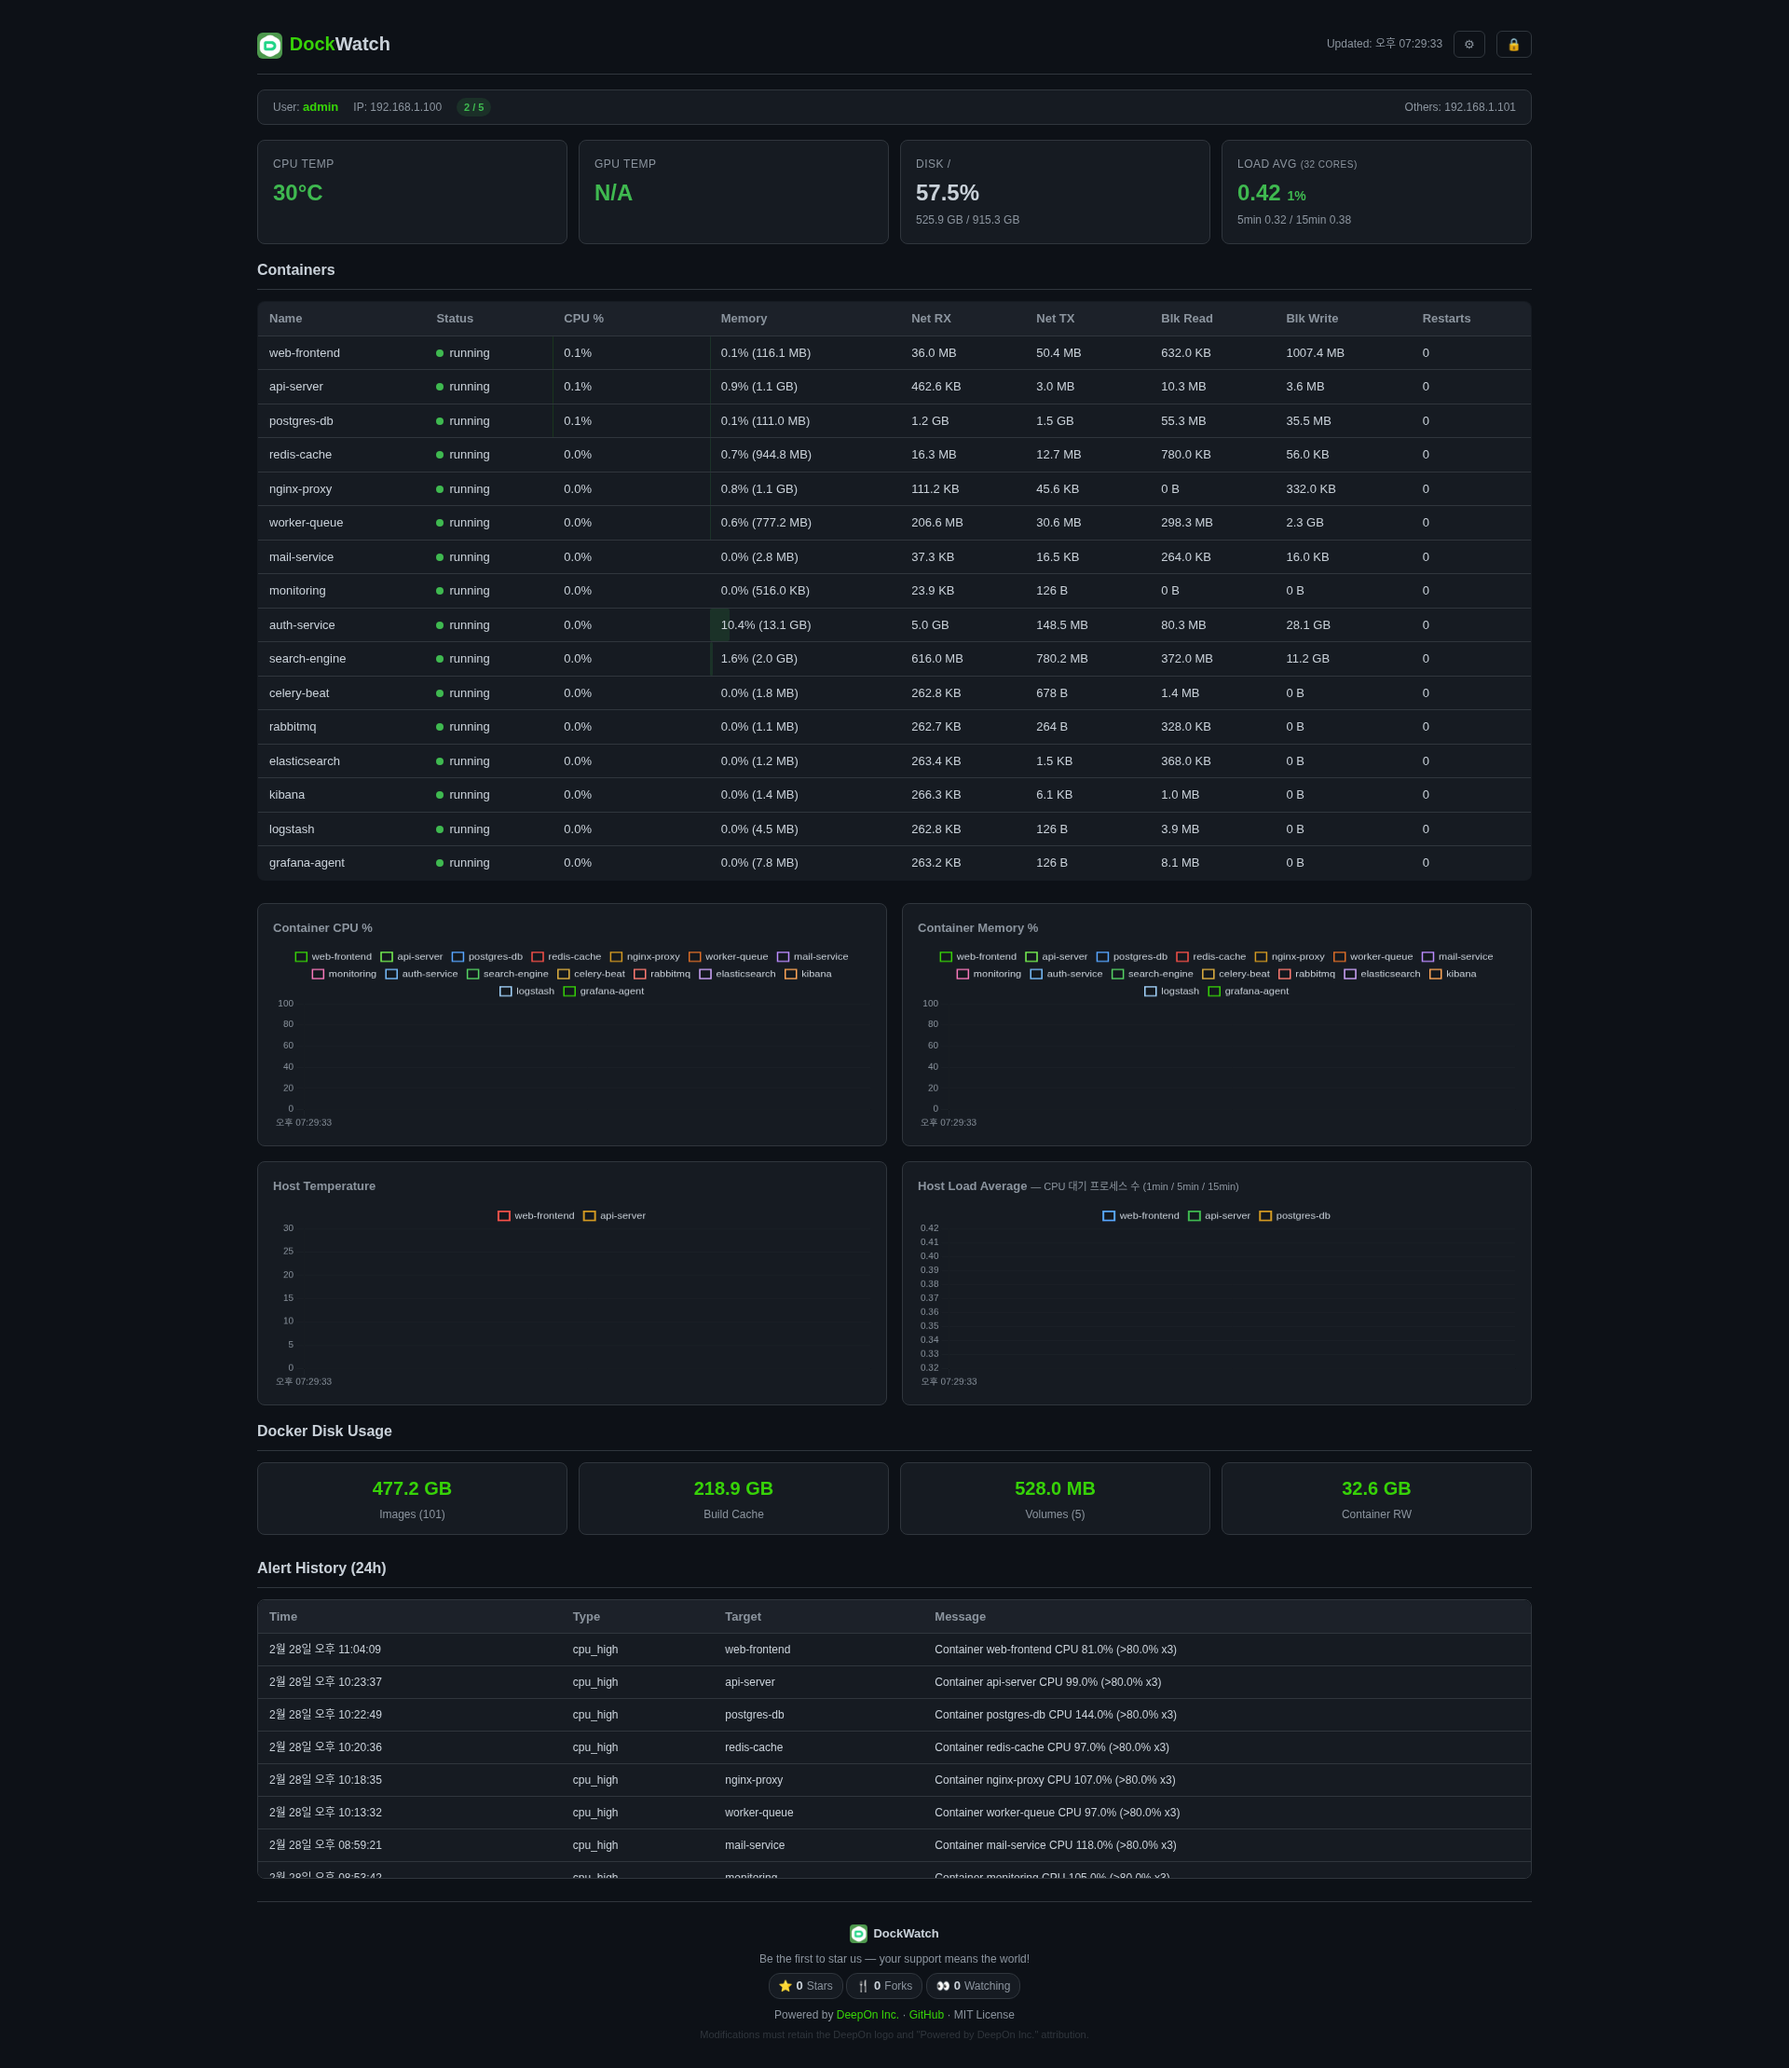
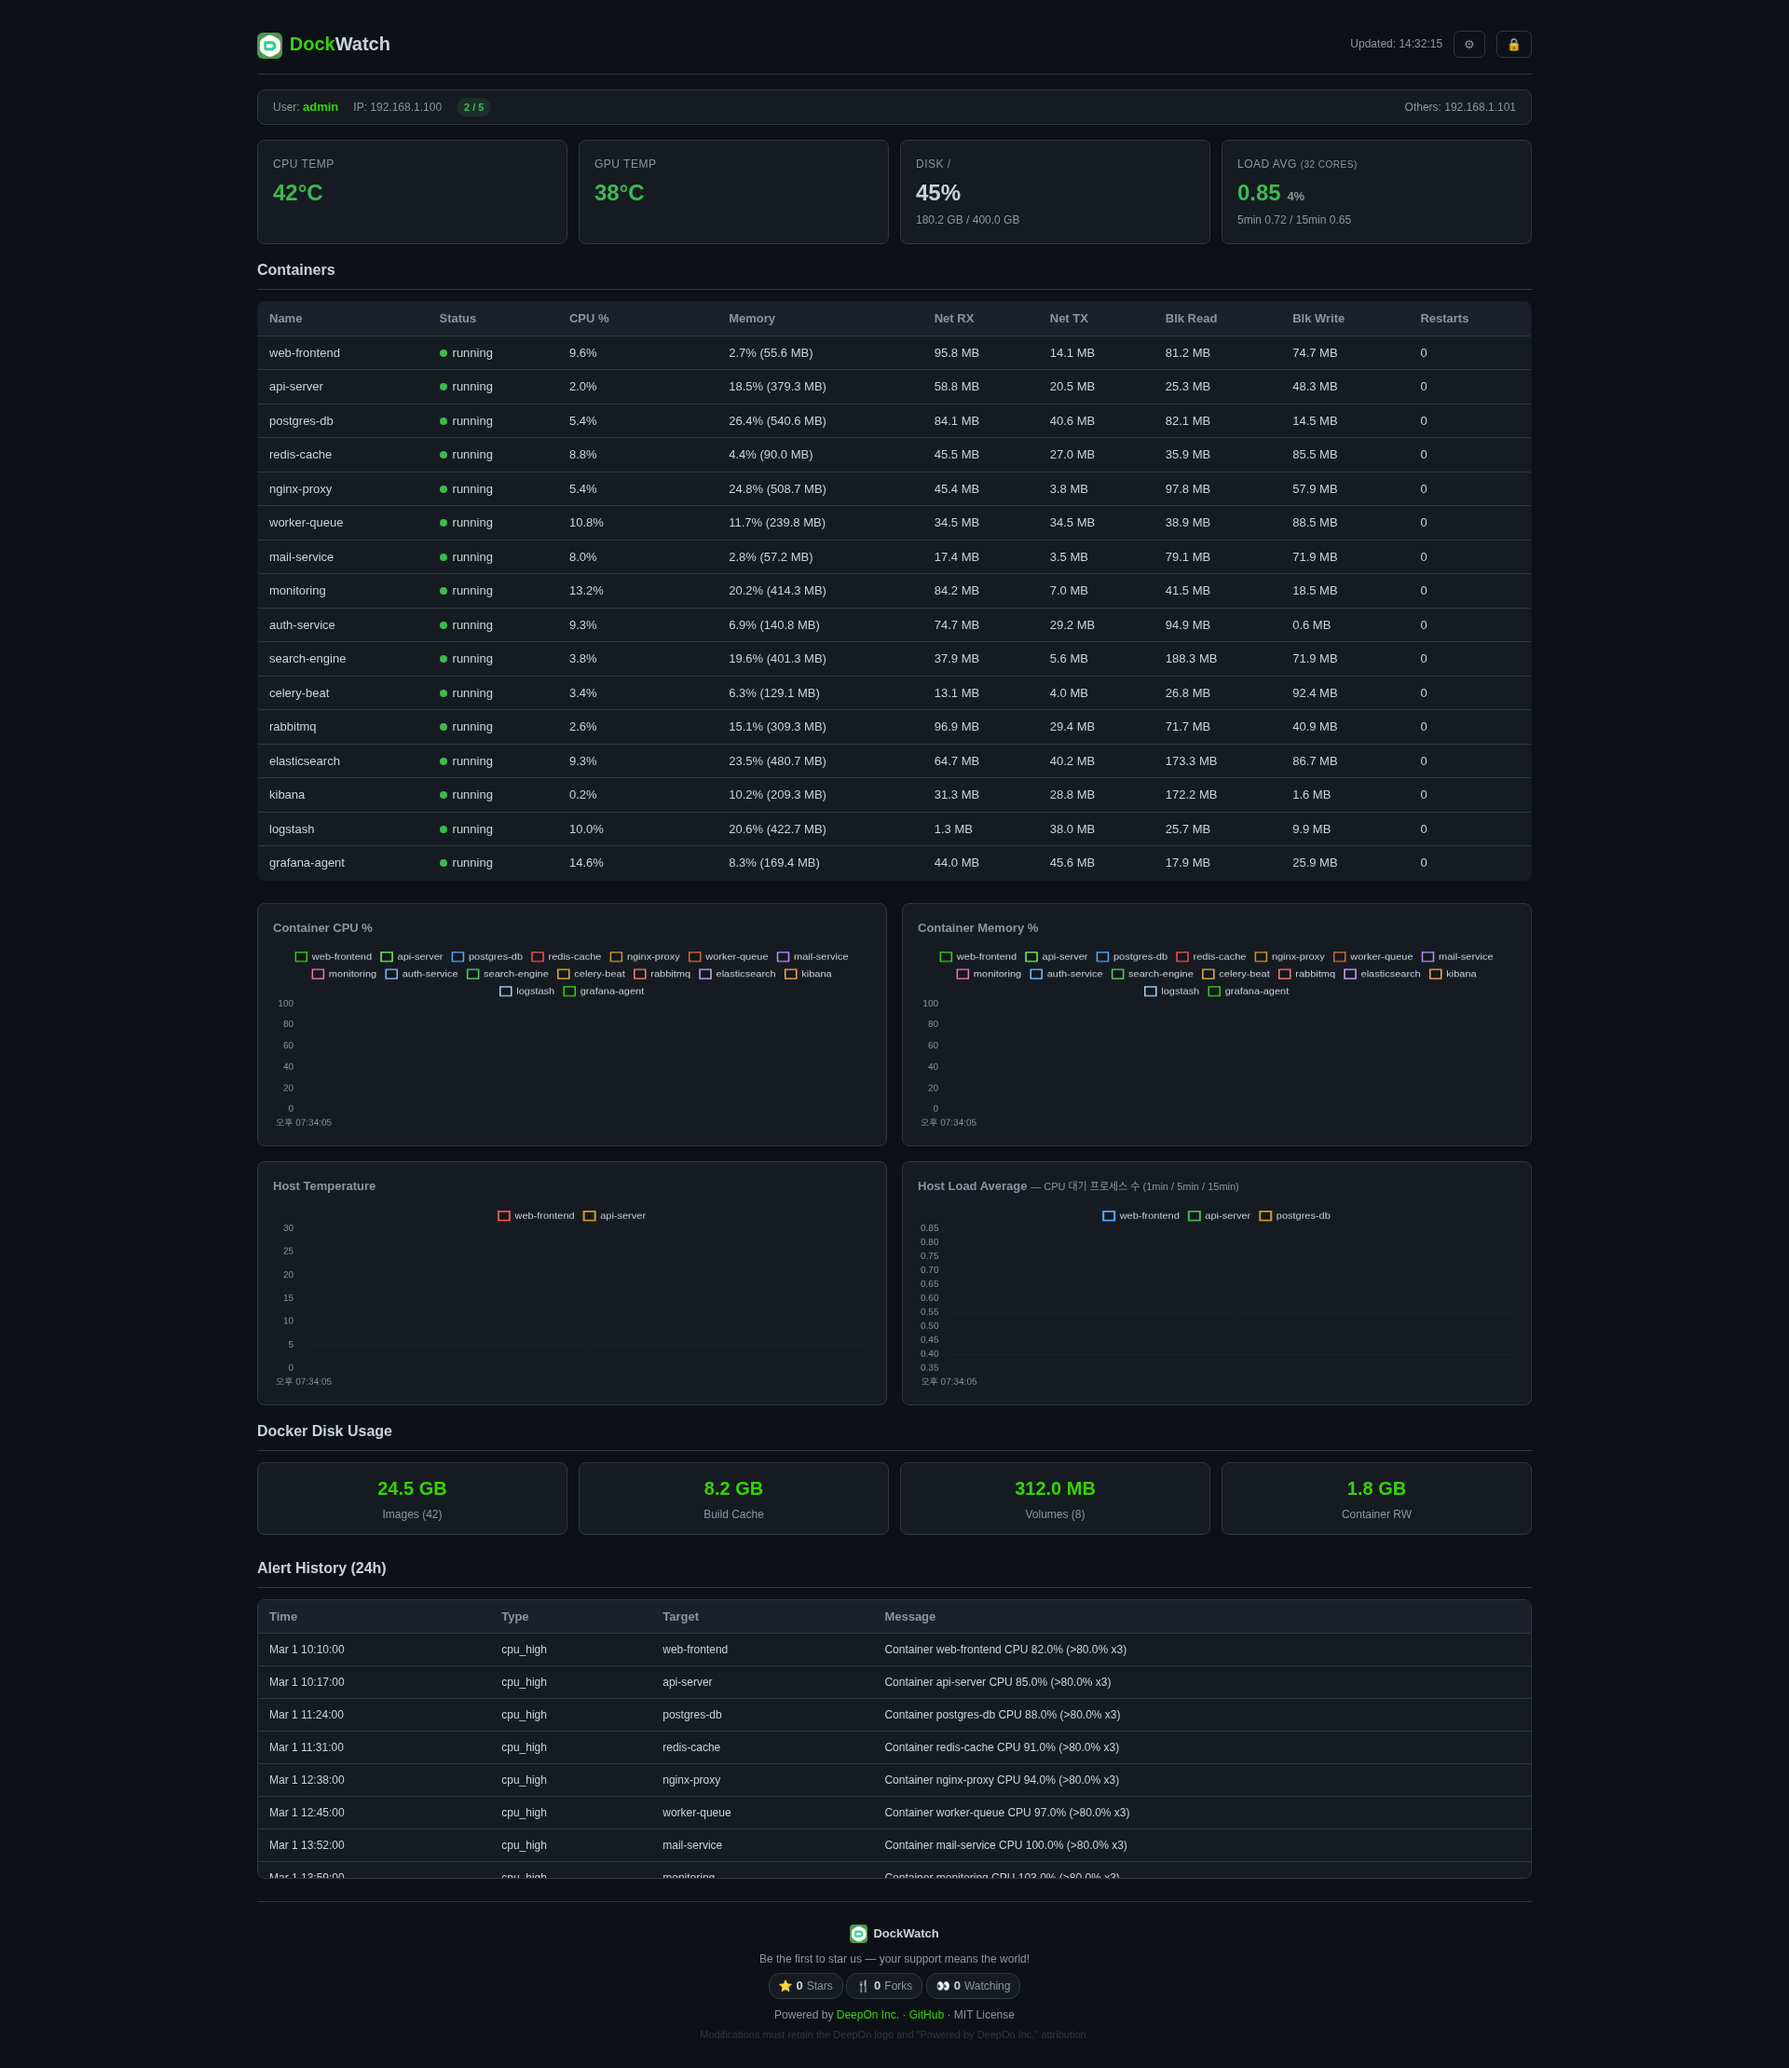
Replace all sensitive data in screenshots with dummy values

diff --git a/docs/capture-screenshots.js b/docs/capture-screenshots.js
@@ -46,7 +46,7 @@ async function capture() {
   // Wait for data to populate
   await delay(5000);
 
-  // Replace sensitive content with dummy data and blur remaining
+  // Replace ALL sensitive content with dummy data
   await page.evaluate(() => {
     const dummyNames = [
       'web-frontend', 'api-server', 'postgres-db', 'redis-cache',
@@ -55,13 +55,30 @@ async function capture() {
       'elasticsearch', 'kibana', 'logstash', 'grafana-agent'
     ];
 
-    // Replace container names in table
+    // --- Container table: replace names + randomize stats ---
     document.querySelectorAll('#containerBody tr').forEach((row, i) => {
-      const nameCell = row.querySelector('td:first-child');
-      if (nameCell) nameCell.textContent = dummyNames[i] || 'service-' + (i + 1);
+      const cells = row.querySelectorAll('td');
+      if (cells[0]) cells[0].textContent = dummyNames[i] || 'service-' + (i + 1);
+      // CPU %
+      if (cells[2]) cells[2].textContent = (Math.random() * 15).toFixed(1) + '%';
+      // Memory
+      if (cells[3]) {
+        const memMB = (50 + Math.random() * 500).toFixed(1);
+        cells[3].textContent = ((memMB / 2048) * 100).toFixed(1) + '% (' + memMB + ' MB)';
+      }
+      // Net RX
+      if (cells[4]) cells[4].textContent = (Math.random() * 100).toFixed(1) + ' MB';
+      // Net TX
+      if (cells[5]) cells[5].textContent = (Math.random() * 50).toFixed(1) + ' MB';
+      // Blk Read
+      if (cells[6]) cells[6].textContent = (Math.random() * 200).toFixed(1) + ' MB';
+      // Blk Write
+      if (cells[7]) cells[7].textContent = (Math.random() * 100).toFixed(1) + ' MB';
+      // Restarts
+      if (cells[8]) cells[8].textContent = '0';
     });
 
-    // Replace session bar IP and Others
+    // --- Session bar: replace IP and Others ---
     const ipEl = document.getElementById('sessionIp');
     if (ipEl) ipEl.textContent = '192.168.1.100';
     document.querySelectorAll('.session-bar span').forEach(el => {
@@ -70,15 +87,68 @@ async function capture() {
       }
     });
 
-    // Replace alert history target and message
-    document.querySelectorAll('#alertBody tr').forEach((row, i) => {
-      const cells = row.querySelectorAll('td');
-      const name = dummyNames[i % dummyNames.length] || 'service';
-      if (cells[2]) cells[2].textContent = name;
-      if (cells[3]) cells[3].textContent = 'Container ' + name + ' CPU ' + (80 + Math.floor(Math.random() * 70)) + '.0% (>80.0% x3)';
+    // --- Host cards: replace real host data ---
+    const hostCards = document.getElementById('hostCards');
+    if (hostCards) {
+      const cards = hostCards.querySelectorAll('.card');
+      cards.forEach(card => {
+        const label = card.querySelector('.label');
+        const value = card.querySelector('.value');
+        const sub = card.querySelector('.sub');
+        if (!label || !value) return;
+        const l = label.textContent.trim();
+        if (l.includes('CPU Temp')) {
+          value.textContent = '42°C';
+          value.style.color = 'var(--green)';
+        } else if (l.includes('GPU Temp')) {
+          value.textContent = '38°C';
+          value.style.color = 'var(--green)';
+        } else if (l.includes('Disk')) {
+          value.textContent = '45%';
+          value.style.color = 'var(--text)';
+          if (sub) sub.textContent = '180.2 GB / 400.0 GB';
+        } else if (l.includes('Load')) {
+          value.innerHTML = '0.85 <span style="font-size:13px;color:var(--text2)">4%</span>';
+          if (sub) sub.textContent = '5min 0.72 / 15min 0.65';
+        }
+      });
+    }
+
+    // --- Host cards header: replace cores info ---
+    document.querySelectorAll('.card .label').forEach(el => {
+      if (el.textContent.includes('CORES')) {
+        el.textContent = el.textContent.replace(/\d+ CORES/, '8 CORES');
+      }
     });
 
-    // Replace chart legends with dummy names
+    // --- Docker Disk Usage (#diskGrid): replace real values ---
+    const diskGrid = document.getElementById('diskGrid');
+    if (diskGrid) {
+      const sizes = diskGrid.querySelectorAll('.size');
+      const labels = diskGrid.querySelectorAll('.dlabel');
+      const dummySizes = ['24.5 GB', '8.2 GB', '312.0 MB', '1.8 GB'];
+      const dummyLabels = ['Images (42)', 'Build Cache', 'Volumes (8)', 'Container RW'];
+      sizes.forEach((s, i) => { if (dummySizes[i]) s.textContent = dummySizes[i]; });
+      labels.forEach((l, i) => { if (dummyLabels[i]) l.textContent = dummyLabels[i]; });
+    }
+
+    // --- LOAD AVG label: replace CORES count ---
+    document.querySelectorAll('.label').forEach(el => {
+      if (el.textContent.includes('CORES')) {
+        el.textContent = el.textContent.replace(/\d+ CORES/, '8 CORES');
+      }
+    });
+
+    // --- Alert history: replace target and message ---
+    document.querySelectorAll('#alertBody tr').forEach((row, i) => {
+      const cells = row.querySelectorAll('td');
+      const name = dummyNames[i % dummyNames.length];
+      if (cells[0]) cells[0].textContent = 'Mar 1 ' + (10 + Math.floor(i * 0.5)) + ':' + String(10 + i * 7).padStart(2, '0') + ':00';
+      if (cells[2]) cells[2].textContent = name;
+      if (cells[3]) cells[3].textContent = 'Container ' + name + ' CPU ' + (82 + i * 3) + '.0% (>80.0% x3)';
+    });
+
+    // --- Chart legends: replace with dummy names ---
     if (typeof Chart !== 'undefined') {
       Object.values(Chart.instances || {}).forEach(chart => {
         if (chart.data && chart.data.datasets) {
@@ -89,6 +159,21 @@ async function capture() {
         }
       });
     }
+
+    // --- Connection count ---
+    document.querySelectorAll('.session-bar span').forEach(el => {
+      const match = el.textContent.match(/(\d+)\s*\/\s*(\d+)/);
+      if (match) el.textContent = '2 / 5';
+    });
+
+    // --- Updated time ---
+    document.querySelectorAll('*').forEach(el => {
+      if (el.childNodes.length === 1 && el.childNodes[0].nodeType === 3) {
+        if (el.textContent.match(/Updated:.*\d{2}:\d{2}:\d{2}/)) {
+          el.textContent = 'Updated: 14:32:15';
+        }
+      }
+    });
   });
 
   await delay(500);
